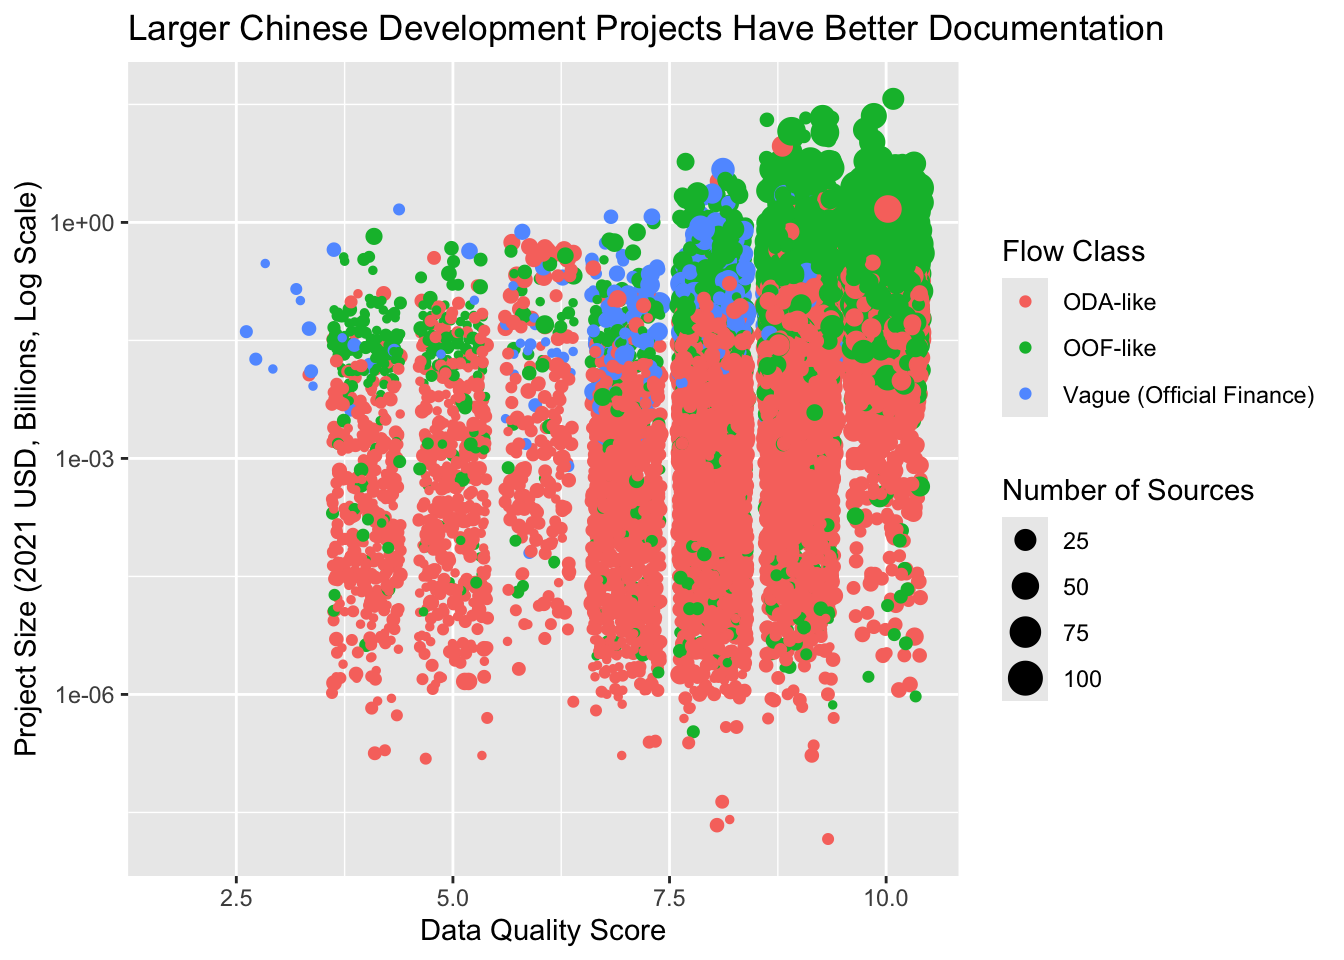
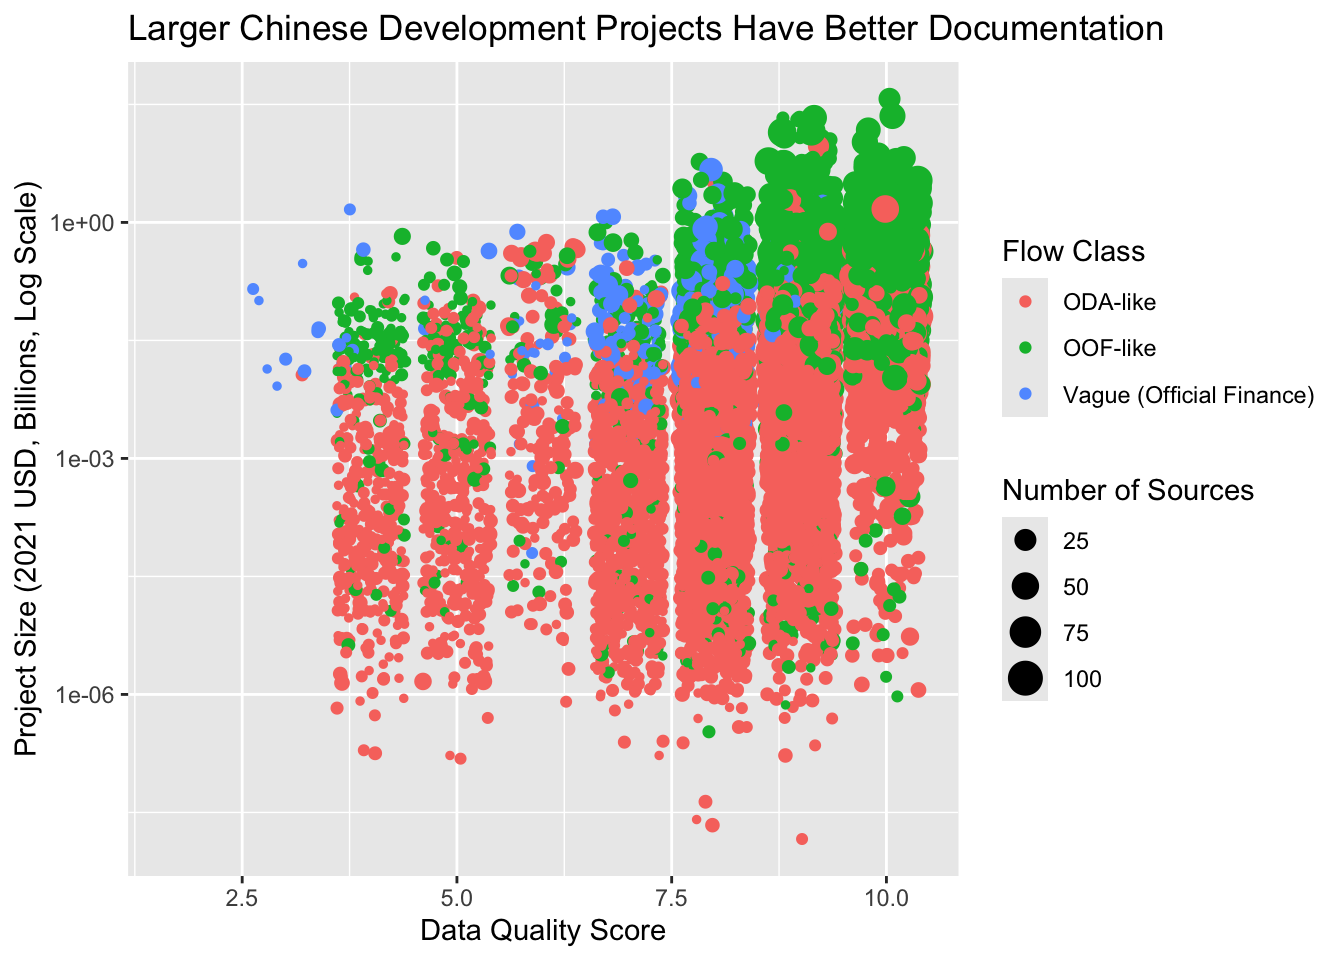
updated IDS data
to 2023 from 2021 for week 4 in class

diff --git a/docs/week_4_in_class.html b/docs/week_4_in_class.html
@@ -489,13 +489,13 @@ Why This Matters for TUFF Analysis
 <p>First, let’s get the IDS debt distress data from GitHub:</p>
 <div class="cell">
 <div class="sourceCode cell-code" id="cb4"><pre class="sourceCode r code-with-copy"><code class="sourceCode r"><span id="cb4-1"><a href="#cb4-1" aria-hidden="true" tabindex="-1"></a><span class="co"># URLs for IDS data</span></span>
-<span id="cb4-2"><a href="#cb4-2" aria-hidden="true" tabindex="-1"></a>ids_data_url <span class="ot">&lt;-</span> <span class="st">"https://raw.githubusercontent.com/Teal-Insights/ids_2024_explorations/main/data/ids_debt_distress_data.csv"</span></span>
-<span id="cb4-3"><a href="#cb4-3" aria-hidden="true" tabindex="-1"></a>ids_metadata_url <span class="ot">&lt;-</span> <span class="st">"https://raw.githubusercontent.com/Teal-Insights/ids_2024_explorations/main/data/ids_debt_distress_metadata.csv"</span></span>
+<span id="cb4-2"><a href="#cb4-2" aria-hidden="true" tabindex="-1"></a>ids_data_url <span class="ot">&lt;-</span> <span class="st">"https://raw.githubusercontent.com/Teal-Insights/ids_2024_explorations/refs/heads/main/data/ids_debt_distress_data.csv"</span></span>
+<span id="cb4-3"><a href="#cb4-3" aria-hidden="true" tabindex="-1"></a>ids_metadata_url <span class="ot">&lt;-</span> <span class="st">"https://raw.githubusercontent.com/Teal-Insights/ids_2024_explorations/refs/heads/main/data/ids_debt_distress_metadata.csv"</span></span>
 <span id="cb4-4"><a href="#cb4-4" aria-hidden="true" tabindex="-1"></a></span>
 <span id="cb4-5"><a href="#cb4-5" aria-hidden="true" tabindex="-1"></a><span class="co"># Import data</span></span>
 <span id="cb4-6"><a href="#cb4-6" aria-hidden="true" tabindex="-1"></a>ids_data <span class="ot">&lt;-</span> <span class="fu">read_csv</span>(ids_data_url)</span></code><button title="Copy to Clipboard" class="code-copy-button"><i class="bi"></i></button></pre></div>
 <div class="cell-output cell-output-stderr">
-<pre><code>Rows: 1130763 Columns: 5
+<pre><code>Rows: 1241272 Columns: 5
 ── Column specification ────────────────────────────────────────────────────────
 Delimiter: ","
 chr (3): geography_id, series_id, counterpart_id
@@ -518,7 +518,7 @@ dbl (1): source_id
 <div class="sourceCode cell-code" id="cb8"><pre class="sourceCode r code-with-copy"><code class="sourceCode r"><span id="cb8-1"><a href="#cb8-1" aria-hidden="true" tabindex="-1"></a><span class="co"># Look at what we have</span></span>
 <span id="cb8-2"><a href="#cb8-2" aria-hidden="true" tabindex="-1"></a><span class="fu">glimpse</span>(ids_data)</span></code><button title="Copy to Clipboard" class="code-copy-button"><i class="bi"></i></button></pre></div>
 <div class="cell-output cell-output-stdout">
-<pre><code>Rows: 1,130,763
+<pre><code>Rows: 1,241,272
 Columns: 5
 $ geography_id   &lt;chr&gt; "AFG", "AFG", "AFG", "AFG", "AFG", "AFG", "AFG", "AFG",…
 $ series_id      &lt;chr&gt; "DT.DXR.DPPG.CD", "DT.NFL.DECT.CD", "DT.NFL.DECT.CD", "…
@@ -825,7 +825,7 @@ Caused by warning:
 </div>
 <div class="sourceCode cell-code" id="cb40"><pre class="sourceCode r code-with-copy"><code class="sourceCode r"><span id="cb40-1"><a href="#cb40-1" aria-hidden="true" tabindex="-1"></a>ids_clean <span class="sc">|&gt;</span> <span class="fu">glimpse</span>()</span></code><button title="Copy to Clipboard" class="code-copy-button"><i class="bi"></i></button></pre></div>
 <div class="cell-output cell-output-stdout">
-<pre><code>Rows: 1,130,763
+<pre><code>Rows: 1,241,272
 Columns: 7
 $ geography_id   &lt;chr&gt; "AFG", "AFG", "AFG", "AFG", "AFG", "AFG", "AFG", "AFG",…
 $ series_id      &lt;chr&gt; "DT.DXR.DPPG.CD", "DT.NFL.DECT.CD", "DT.NFL.DECT.CD", "…
